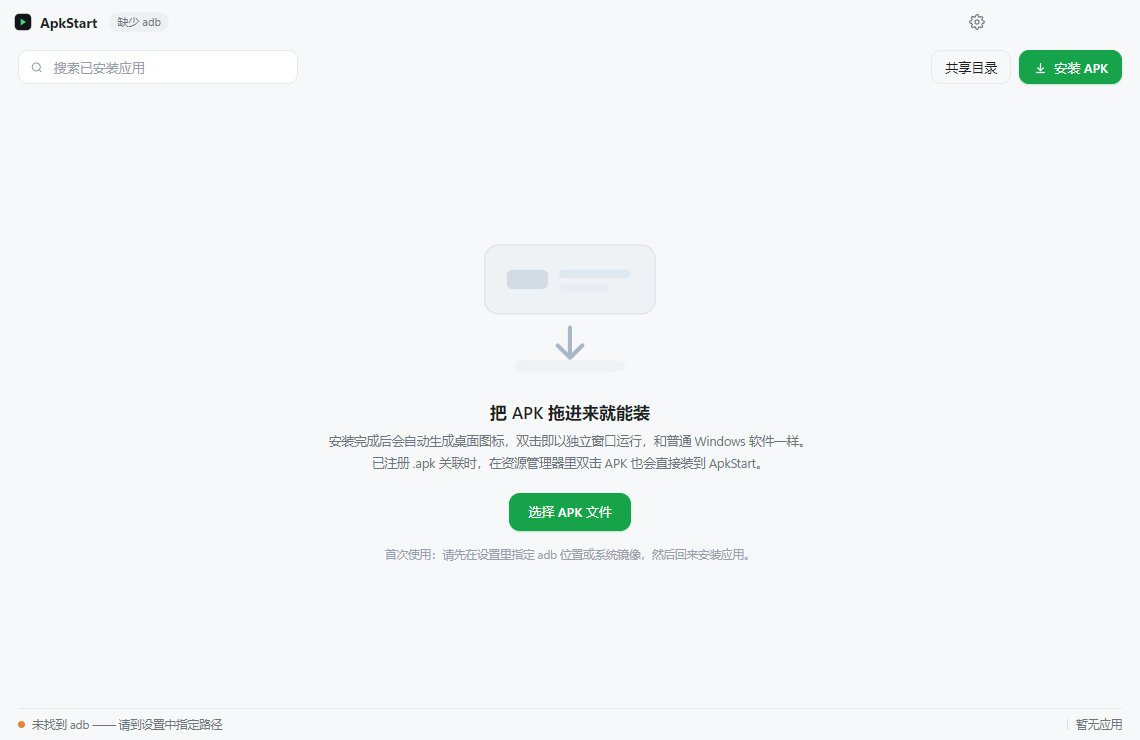
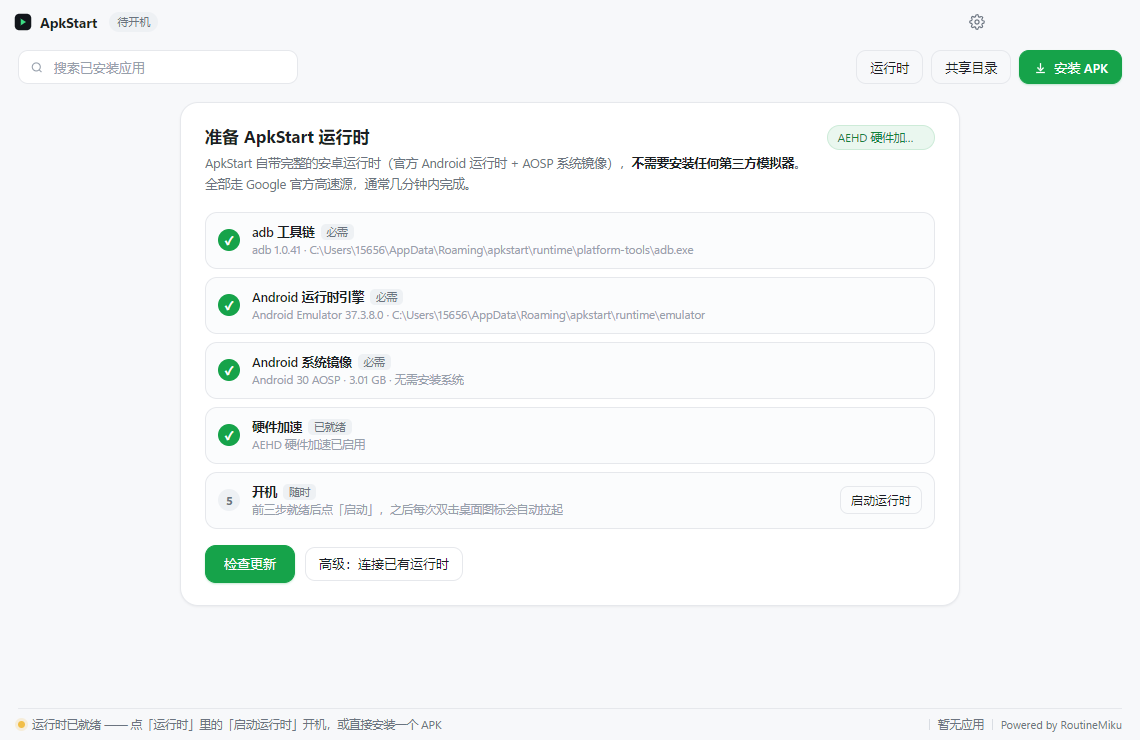
docs(readme): 更新主界面截图，关于区新增面板截图

diff --git a/README.md b/README.md
@@ -138,7 +138,7 @@ ApkStart 由 **RoutineMiku** 开发维护。
 - GitHub：<https://github.com/RoutineMiku/apkstart>
 - 微信公众号：扫码关注
 
-<p align="center"><img src="src/ui/assets/wechat-qr.jpg" alt="微信公众号二维码" width="180" /></p>
+<p align="center"><img src="docs/images/brand.png" alt="关于面板：公众号二维码与项目链接" width="560" /></p>
 
 <p align="center"><i>Powered by <b>RoutineMiku</b></i></p>
 
